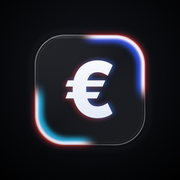
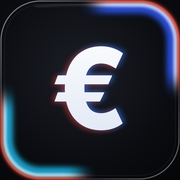
Icône : la dalle de verre occupe toute l'icône (plus de cadre noir)
Claude-Session: https://claude.ai/code/session_01AiTFxojN7cuvwQs2oCcdx3

diff --git a/docs/service-worker.js b/docs/service-worker.js
@@ -9,7 +9,7 @@
 // Les échanges avec Firebase (autres domaines) ne passent jamais par ce cache.
 //
 // CACHE_VERSION doit être augmenté à chaque publication.
-const CACHE_VERSION = "budget-v10";
+const CACHE_VERSION = "budget-v11";
 const CORE = ["./", "index.html", "app.css", "manifest.json", "icon-192.png", "apple-touch-icon.png",
   "js/theme.js", "js/app.js", "js/backend.js", "js/store.js", "js/cloud.js", "js/crypto.js", "js/config.js",
   "js/core.js", "js/defaults.js", "js/migrations.js", "js/categorize.js", "js/analytics.js", "js/csvparse.js", "js/pdfparse.js",

diff --git a/tools/icon/gen_icon.py b/tools/icon/gen_icon.py
@@ -1,49 +1,47 @@
-# Génère l'icône « verre » de l'app : python3 tools/icon/gen_icon.py dark > icone.html, puis capture 1024x1024.
+# Génère l'icône « verre » de l'app (dalle pleine page : l'iPhone découpe lui-même les coins arrondis).
+# Usage : python3 tools/icon/gen_icon.py dark > icone.html   (ou light), puis capture 1024x1024 de #ic.
 import sys
-mode = sys.argv[1]
-dark = mode == "dark"
-# Dalle agrandie (x=200..824)
-X, W, R = 200, 624, 168
-bg = ('<stop offset="0" stop-color="#16181f"/><stop offset=".6" stop-color="#08090c"/><stop offset="1" stop-color="#000"/>' if dark else
-      '<stop offset="0" stop-color="#fbfbfd"/><stop offset=".7" stop-color="#eceef2"/><stop offset="1" stop-color="#dfe2e8"/>')
-glyph_fill = "url(#glyph)" if dark else "#0b0d12"
-glyph_stops = '<stop offset="0" stop-color="#ffffff"/><stop offset="1" stop-color="#dde5f3"/>'
-glass_op = (".10", ".03", ".08") if dark else (".55", ".25", ".45")
-rim_col = "#fff" if dark else "#ffffff"
-shadow = "" if dark else f'<rect x="{X}" y="{X+18}" width="{W}" height="{W}" rx="{R}" fill="#8a93a6" opacity=".35" filter="url(#b30)"/>'
-def ring(color, width, blur, dx, dy, op=1):
-    return (f'<rect x="{X+10}" y="{X+10}" width="{W-20}" height="{W-20}" rx="{R-8}" fill="none" stroke="{color}" '
-            f'stroke-width="{width}" stroke-opacity="{op}" filter="url(#{blur})" transform="translate({dx} {dy})"/>')
-trR = ring("#ff5a1f", 10, "b6", 7, -7) + ring("#ff2f4a", 16, "b14", 10, -9, .7)
-tr = ring("#ff2f8f", 22, "b14", 2, 2, .8) + ring("#2b5bff", 34, "b14", -16, 12) + ring("#ffffff", 22, "b6", 0, 0, .95 if dark else .9)
-blR = ring("#ff5a1f", 10, "b6", -7, 7) + ring("#ff2f4a", 16, "b14", -10, 9, .7)
-bl = ring("#ff2f8f", 20, "b14", -2, 0, .7) + ring("#1fc8ff", 32, "b14", 16, -12) + ring("#ffffff", 18, "b6", 0, 0, .9 if dark else .85)
-print(f'''<!doctype html><html><head><meta charset="utf-8"><style>html,body{{margin:0}}svg{{display:block}}</style></head><body>
+
+dark = (sys.argv[1] if len(sys.argv) > 1 else "dark") == "dark"
+R = 230  # rayon proche de la découpe iOS (~22,4 %)
+
+
+def ring(color, inset, width, blur, op=1.0):
+    x = inset
+    w = 1024 - 2 * inset
+    return (f'<rect x="{x}" y="{x}" width="{w}" height="{w}" rx="{max(R - inset, 40)}" fill="none" stroke="{color}" '
+            f'stroke-width="{width}" stroke-opacity="{op}" filter="url(#{blur})"/>')
+
+
+# Du bord vers l'intérieur : rouge-orangé, blanc, bleu (aberration chromatique du verre).
+corner_tr = (ring("#ff5a1f", 10, 16, "b6", .9) + ring("#ff2f4a", 16, 22, "b14", .6) + ring("#ffffff", 30, 26, "b6", .95)
+             + ring("#2b5bff", 54, 38, "b14", .95))
+corner_bl = (ring("#ff5a1f", 10, 14, "b6", .85) + ring("#ff2f4a", 16, 20, "b14", .55) + ring("#ffffff", 30, 22, "b6", .9)
+             + ring("#1fc8ff", 52, 36, "b14", .95))
+bg = ('<stop offset="0" stop-color="#1b1e26"/><stop offset=".65" stop-color="#0b0c10"/><stop offset="1" stop-color="#050608"/>'
+      if dark else '<stop offset="0" stop-color="#ffffff"/><stop offset=".7" stop-color="#eef0f4"/><stop offset="1" stop-color="#e2e5eb"/>')
+glyph = "url(#glyph)" if dark else "#0b0d12"
+print(f'''<!doctype html><html><head><meta charset="utf-8"><style>html,body{{margin:0;background:#000}}svg{{display:block}}</style></head><body>
 <svg id="ic" width="1024" height="1024" viewBox="0 0 1024 1024" xmlns="http://www.w3.org/2000/svg">
 <defs>
-<radialGradient id="bg" cx="50%" cy="42%" r="78%">{bg}</radialGradient>
-<linearGradient id="glass" x1="0" y1="0" x2="1" y2="1"><stop offset="0" stop-color="#fff" stop-opacity="{glass_op[0]}"/><stop offset=".5" stop-color="#fff" stop-opacity="{glass_op[1]}"/><stop offset="1" stop-color="#fff" stop-opacity="{glass_op[2]}"/></linearGradient>
-<linearGradient id="rim" x1="0" y1="0" x2="1" y2="1"><stop offset="0" stop-color="{rim_col}" stop-opacity=".6"/><stop offset=".35" stop-color="{rim_col}" stop-opacity=".14"/><stop offset=".7" stop-color="{rim_col}" stop-opacity=".12"/><stop offset="1" stop-color="{rim_col}" stop-opacity=".5"/></linearGradient>
-<linearGradient id="glyph" x1="0" y1="0" x2="0" y2="1">{glyph_stops}</linearGradient>
-<filter id="b6" x="-20%" y="-20%" width="140%" height="140%"><feGaussianBlur stdDeviation="6"/></filter>
-<filter id="b14" x="-20%" y="-20%" width="140%" height="140%"><feGaussianBlur stdDeviation="14"/></filter>
-<filter id="b30" x="-30%" y="-30%" width="160%" height="160%"><feGaussianBlur stdDeviation="30"/></filter>
-<clipPath id="sq"><rect x="{X}" y="{X}" width="{W}" height="{W}" rx="{R}"/></clipPath>
-<mask id="mTR"><rect width="1024" height="1024" fill="#000"/><circle cx="830" cy="200" r="330" fill="#fff" filter="url(#b30)"/></mask>
-<mask id="mBL"><rect width="1024" height="1024" fill="#000"/><circle cx="195" cy="830" r="310" fill="#fff" filter="url(#b30)"/></mask>
+<radialGradient id="bg" cx="45%" cy="40%" r="80%">{bg}</radialGradient>
+<linearGradient id="glyph" x1="0" y1="0" x2="0" y2="1"><stop offset="0" stop-color="#fff"/><stop offset="1" stop-color="#dde5f3"/></linearGradient>
+<linearGradient id="rim" x1="0" y1="0" x2="1" y2="1"><stop offset="0" stop-color="#fff" stop-opacity=".55"/><stop offset=".35" stop-color="#fff" stop-opacity=".12"/><stop offset=".7" stop-color="#fff" stop-opacity=".1"/><stop offset="1" stop-color="#fff" stop-opacity=".45"/></linearGradient>
+<filter id="b6" x="-10%" y="-10%" width="120%" height="120%"><feGaussianBlur stdDeviation="7"/></filter>
+<filter id="b14" x="-10%" y="-10%" width="120%" height="120%"><feGaussianBlur stdDeviation="16"/></filter>
+<filter id="b40" x="-30%" y="-30%" width="160%" height="160%"><feGaussianBlur stdDeviation="45"/></filter>
+<mask id="mTR"><rect width="1024" height="1024" fill="#000"/><circle cx="1010" cy="10" r="470" fill="#fff" filter="url(#b40)"/></mask>
+<mask id="mBL"><rect width="1024" height="1024" fill="#000"/><circle cx="10" cy="1010" r="450" fill="#fff" filter="url(#b40)"/></mask>
 </defs>
 <rect width="1024" height="1024" fill="url(#bg)"/>
-{shadow}
-<rect x="{X-22}" y="{X-22}" width="{W+44}" height="{W+44}" rx="{R+20}" fill="none" stroke="{'#fff' if dark else '#9aa3b5'}" stroke-opacity=".08" stroke-width="10" filter="url(#b14)"/>
-<rect x="{X}" y="{X}" width="{W}" height="{W}" rx="{R}" fill="url(#glass)"/>
-<g opacity="{'.85' if dark else '.6'}"><g mask="url(#mTR)">{trR}</g><g mask="url(#mBL)">{blR}</g></g>
-<g clip-path="url(#sq)"><g mask="url(#mTR)">{tr}</g><g mask="url(#mBL)">{bl}</g></g>
-<rect x="{X}" y="{X}" width="{W}" height="{W}" rx="{R}" fill="none" stroke="url(#rim)" stroke-width="5"/>
-<rect x="{X+15}" y="{X+15}" width="{W-30}" height="{W-30}" rx="{R-14}" fill="none" stroke="{'#fff' if dark else '#ffffff'}" stroke-opacity="{'.10' if dark else '.7'}" stroke-width="2"/>
-<g font-family="Inter, 'Helvetica Neue', Arial, sans-serif" font-weight="800" font-size="440" text-anchor="middle">
-<text x="503" y="672" fill="#ff3d2e" opacity="{'.55' if dark else '.35'}" filter="url(#b14)">€</text>
-<text x="523" y="664" fill="#2b7bff" opacity="{'.6' if dark else '.4'}" filter="url(#b14)">€</text>
-<text x="512" y="668" fill="{glyph_fill}">€</text>
+<g mask="url(#mTR)">{corner_tr}</g>
+<g mask="url(#mBL)">{corner_bl}</g>
+<rect x="6" y="6" width="1012" height="1012" rx="{R - 6}" fill="none" stroke="url(#rim)" stroke-width="6"/>
+<rect x="26" y="26" width="972" height="972" rx="{R - 24}" fill="none" stroke="#fff" stroke-opacity="{'.08' if dark else '.6'}" stroke-width="3"/>
+<g font-family="Inter, 'Helvetica Neue', Arial, sans-serif" font-weight="800" font-size="640" text-anchor="middle">
+<text x="498" y="740" fill="#ff3d2e" opacity="{'.5' if dark else '.3'}" filter="url(#b14)">€</text>
+<text x="526" y="730" fill="#2b7bff" opacity="{'.6' if dark else '.4'}" filter="url(#b14)">€</text>
+<text x="512" y="735" fill="{glyph}">€</text>
 </g>
-<path d="M290 216 Q512 192 734 216" stroke="#fff" stroke-opacity="{'.35' if dark else '.9'}" stroke-width="4" fill="none" filter="url(#b6)"/>
+<path d="M200 40 Q512 10 824 40" stroke="#fff" stroke-opacity="{'.3' if dark else '.9'}" stroke-width="5" fill="none" filter="url(#b6)"/>
 </svg></body></html>''')
